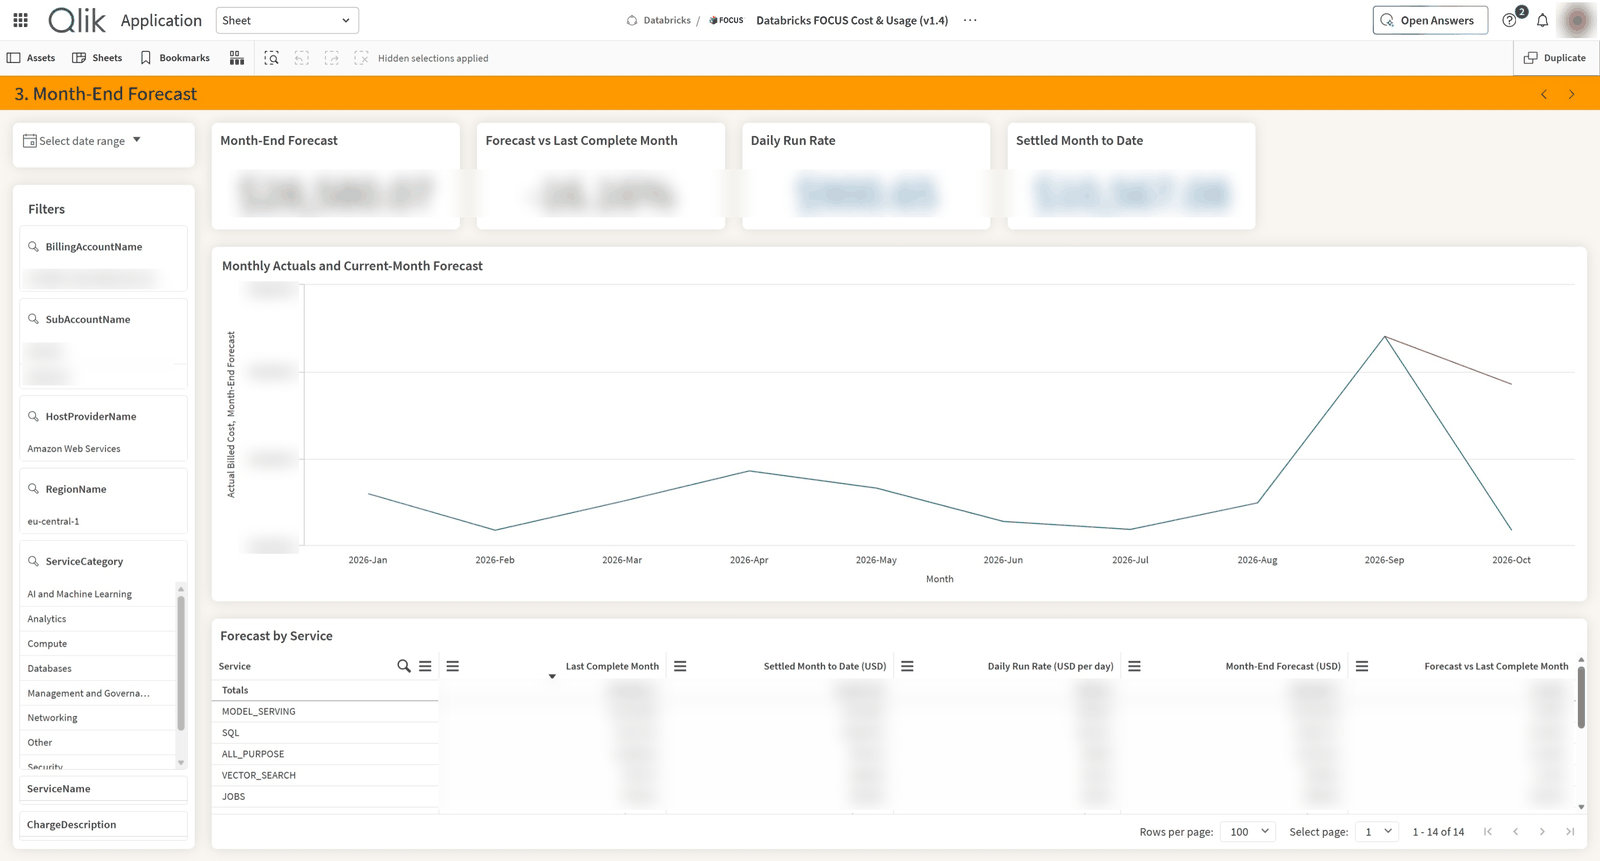
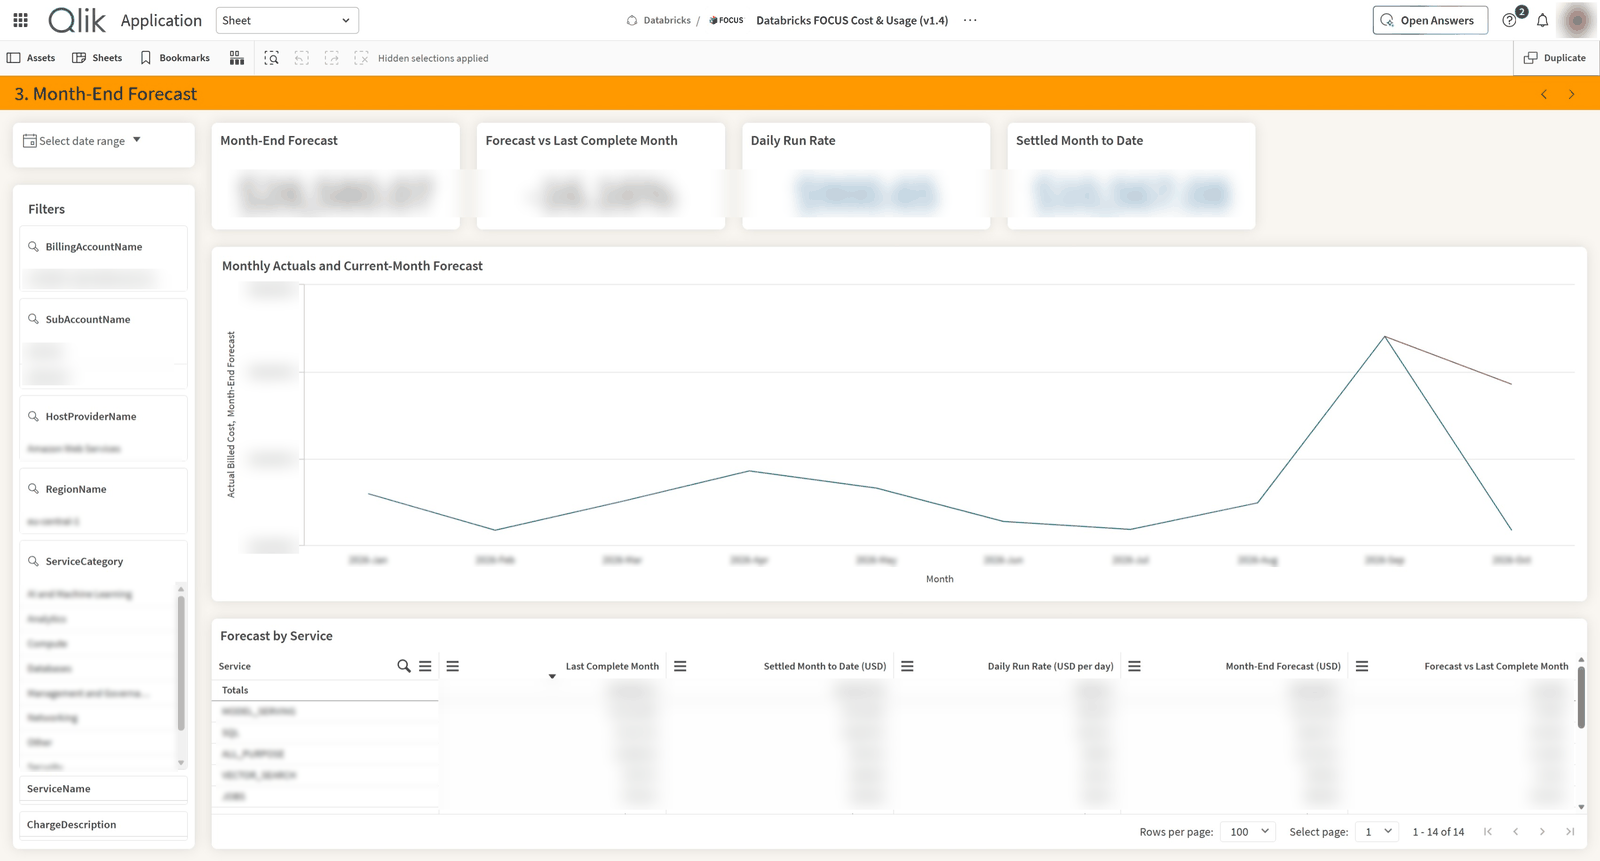
Drop the About screenshot and blur dimension labels in the others

diff --git a/finops/README.md b/finops/README.md
@@ -50,10 +50,6 @@ M-1 and M-2 are the 2nd and 3rd most recent months in the current selection (var
 <details>
 <summary>Sheet screenshots</summary>
 
-**About**
-
-![About sheet](images/sheet-about.png)
-
 **Billing Overview**
 
 ![Billing Overview sheet](images/sheet-billing-overview.png)
@@ -78,7 +74,7 @@ M-1 and M-2 are the 2nd and 3rd most recent months in the current selection (var
 
 ![5. AI & ML Spend sheet](images/sheet-ai-ml-spend.png)
 
-Values are blurred.
+Values and dimension labels are blurred.
 
 </details>
 
